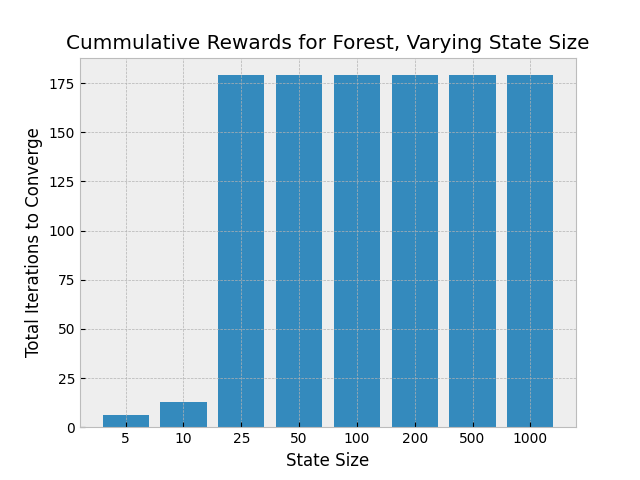
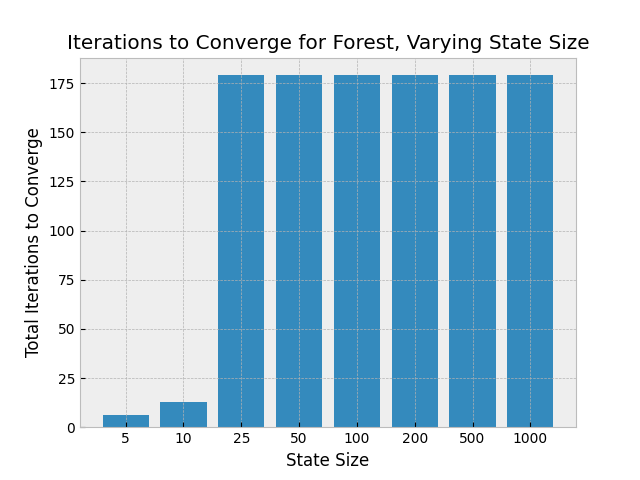
Updates

diff --git a/policy_iter.py b/policy_iter.py
@@ -128,7 +128,7 @@ def plot_sizes(data, problemName):
     plt.ylabel("Total Iterations to Converge")
     # plt.legend()
     #plt.show()
-    plt.title("Cummulative Rewards for {}, Varying State Size".format(problemName))
+    plt.title("Iterations to Converge for {}, Varying State Size".format(problemName))
     plt.savefig('./graphs/PI/{}_size.png'.format(problemName))
 
 def runForestExp():

diff --git a/value_iter.py b/value_iter.py
@@ -127,7 +127,7 @@ def plot_sizes(data, problemName):
     plt.ylabel("Total Iterations to Converge")
     # plt.legend()
     #plt.show()
-    plt.title("Cummulative Rewards for {}, Varying State Size".format(problemName))
+    plt.title("Iterations to Converge for {}, Varying State Size".format(problemName))
     plt.savefig('./graphs/VI/{}_size.png'.format(problemName))
 
 

diff --git a/README.md b/README.md
@@ -1,7 +1,7 @@
 ### CS 7641 Project 3: Markov Decision Processes
 
 # Github Link:
-
+https://github.com/jles9/cs7641_p4
 
 ## Overview
 This project seeks to conduct a suvery of reinforcement learning algorithims, including:
